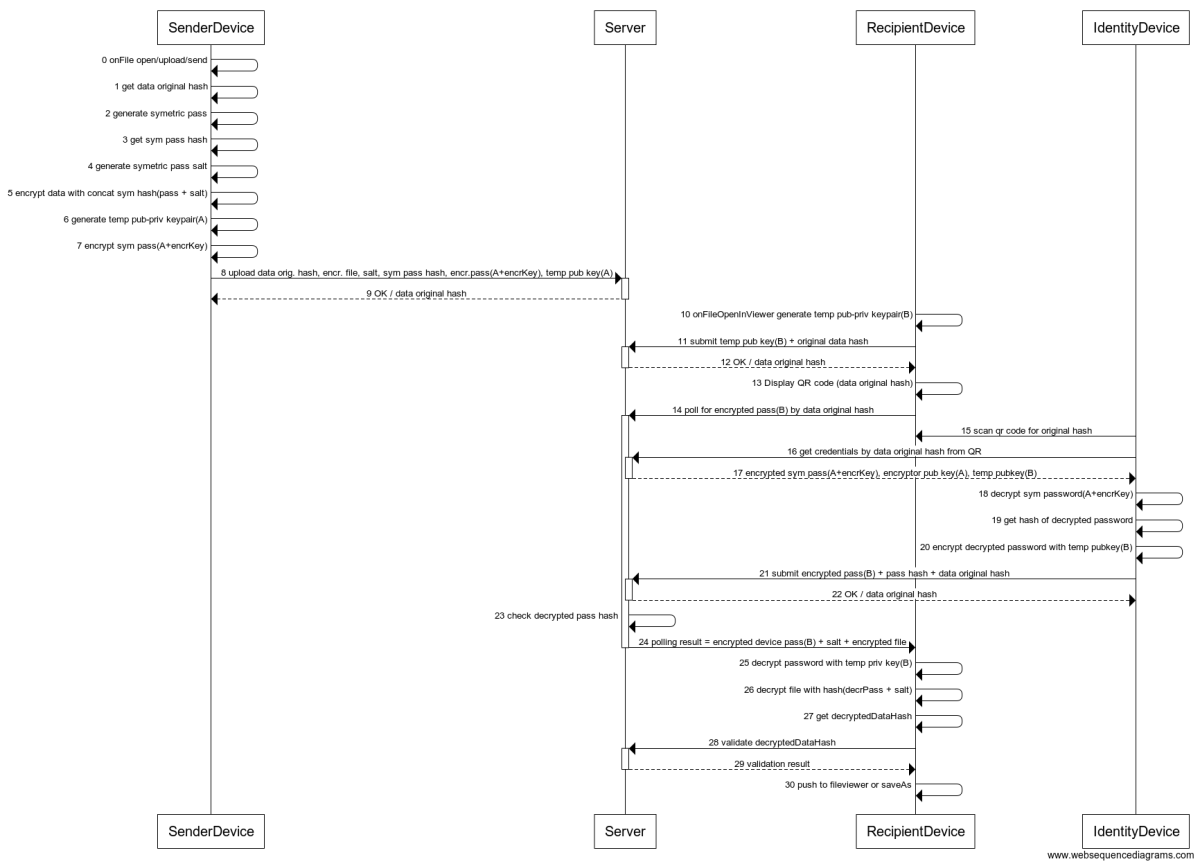
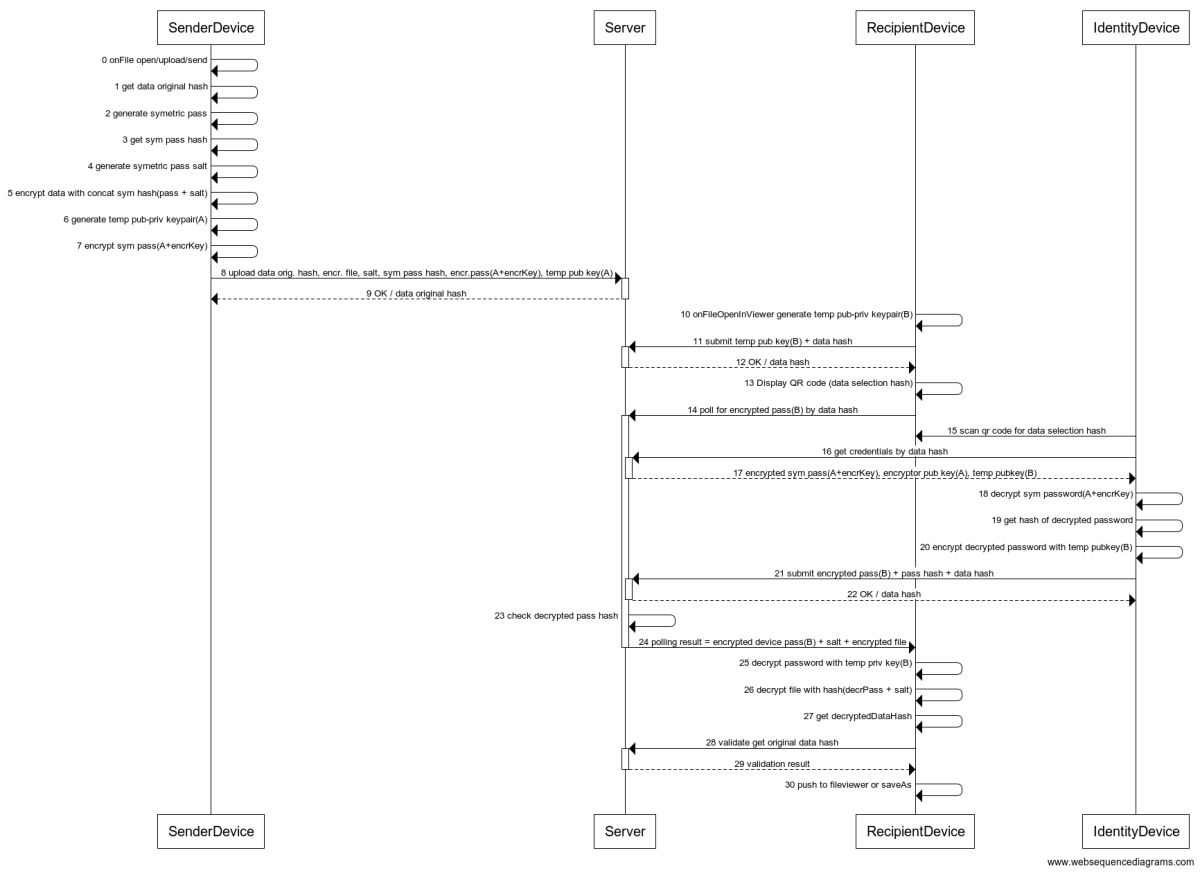
update of the diagram

diff --git a/docs/WebSequenceDiagram.md b/docs/WebSequenceDiagram.md
@@ -14,24 +14,24 @@ SenderDevice->SenderDevice: 7 encrypt sym pass(A+encrKey)
 SenderDevice->+Server: 8 upload data orig. hash, encr. file, salt, sym pass hash, encr.pass(A+encrKey), temp pub key(A)
 Server-->-SenderDevice: 9 OK / data original hash
 RecipientDevice->RecipientDevice: 10 onFileOpenInViewer generate temp pub-priv keypair(B)
-RecipientDevice->+Server: 11 submit temp pub key(B) + original data hash
-Server-->-RecipientDevice: 12 OK / data original hash
-RecipientDevice->RecipientDevice: 13 Display QR code (data original hash)
-RecipientDevice->+Server: 14 poll for encrypted pass(B) by data original hash
-IdentityDevice->RecipientDevice: 15 scan qr code for original hash
-IdentityDevice->+Server: 16 get credentials by data original hash from QR
+RecipientDevice->+Server: 11 submit temp pub key(B) + data hash
+Server-->-RecipientDevice: 12 OK / data hash
+RecipientDevice->RecipientDevice: 13 Display QR code (data selection hash)
+RecipientDevice->+Server: 14 poll for encrypted pass(B) by data hash
+IdentityDevice->RecipientDevice: 15 scan qr code for data selection hash
+IdentityDevice->+Server: 16 get credentials by data hash
 Server-->-IdentityDevice: 17 encrypted sym pass(A+encrKey), encryptor pub key(A), temp pubkey(B)
 IdentityDevice->IdentityDevice: 18 decrypt sym password(A+encrKey)
 IdentityDevice->IdentityDevice: 19 get hash of decrypted password
 IdentityDevice->IdentityDevice: 20 encrypt decrypted password with temp pubkey(B)
-IdentityDevice->+Server: 21 submit encrypted pass(B) + pass hash + data original hash
-Server-->-IdentityDevice: 22 OK / data original hash
+IdentityDevice->+Server: 21 submit encrypted pass(B) + pass hash + data hash
+Server-->-IdentityDevice: 22 OK / data hash
 Server->Server: 23 check decrypted pass hash
 Server->-RecipientDevice: 24 polling result = encrypted device pass(B) + salt + encrypted file
 RecipientDevice->RecipientDevice: 25 decrypt password with temp priv key(B)
 RecipientDevice->RecipientDevice: 26 decrypt file with hash(decrPass + salt)
 RecipientDevice->RecipientDevice: 27 get decryptedDataHash
-RecipientDevice->+Server: 28 validate decryptedDataHash
+RecipientDevice->+Server: 28 validate get original data hash
 Server-->-RecipientDevice: 29 validation result
 RecipientDevice->RecipientDevice: 30 push to fileviewer or saveAs
 ```
